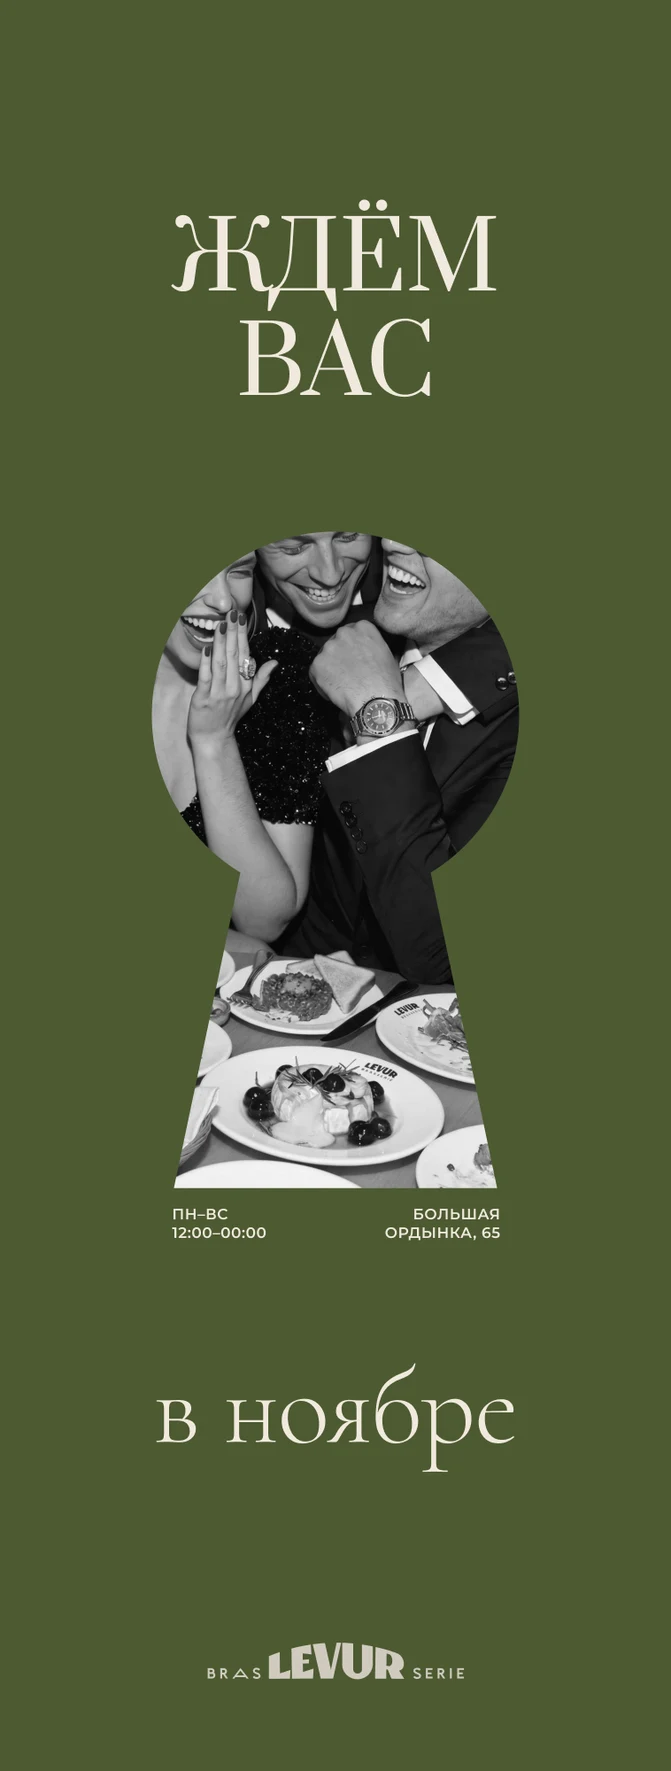
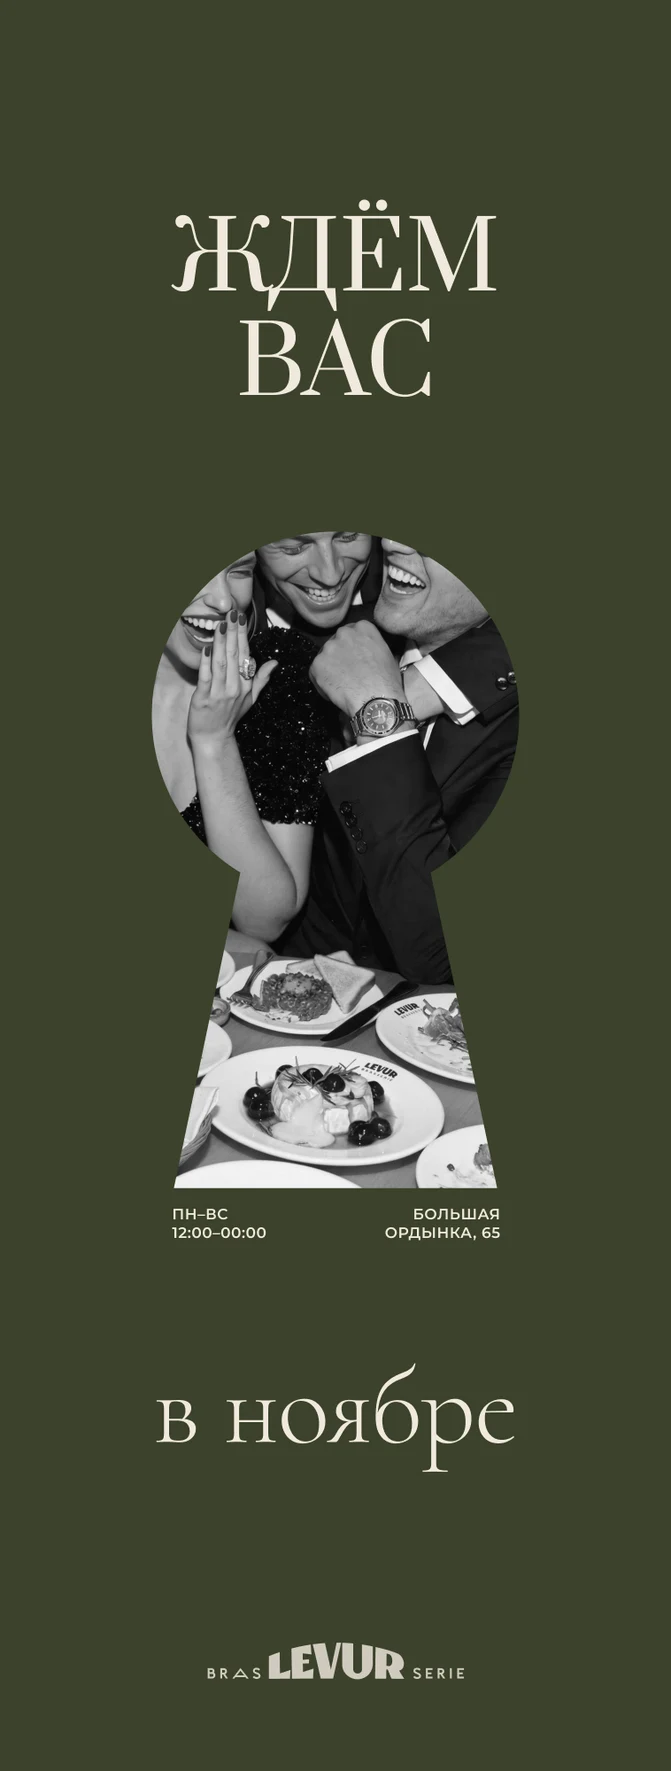
Концепция 2, вариант 2: глубже оливковый и винный

diff --git a/index.html b/index.html
@@ -190,7 +190,7 @@
           </div>
           <div class="shade"></div>
         </div></div>
-        <figcaption>Вариант 2<span class="opts" role="group" aria-label="Вариант постера"><button type="button" id="k2dark" data-img="k2" data-src="door-3d/sticker-poster-serif-dark.webp?v=20261028h" aria-pressed="true">Антиква, чёрный</button><button type="button" data-img="k2" data-src="door-3d/sticker-poster-grotesk.webp?v=20261028g" aria-pressed="false">Гротеск</button><button type="button" data-img="k2" data-src="door-3d/sticker-poster-serif.webp?v=20261028e" aria-pressed="false">Антиква</button></span><span class="swatches" id="k2sw" role="group" aria-label="Цвет фона"><button type="button" class="swb" data-k2="black" data-src="door-3d/sticker-poster-serif-dark.webp?v=20261028h" aria-pressed="true" title="Чёрный" aria-label="Чёрный"><span style="background:#262728"></span></button><button type="button" class="swb" data-k2="green" data-src="door-3d/sticker-poster-serif-dark-green.webp?v=20261028h" aria-pressed="false" title="Оливковый" aria-label="Оливковый"><span style="background:#4d5a32"></span></button><button type="button" class="swb" data-k2="wine" data-src="door-3d/sticker-poster-serif-dark-wine.webp?v=20261028h" aria-pressed="false" title="Винный" aria-label="Винный"><span style="background:#7a2e36"></span></button><span class="cname">Чёрный</span></span></figcaption>
+        <figcaption>Вариант 2<span class="opts" role="group" aria-label="Вариант постера"><button type="button" id="k2dark" data-img="k2" data-src="door-3d/sticker-poster-serif-dark.webp?v=20261028h" aria-pressed="true">Антиква, чёрный</button><button type="button" data-img="k2" data-src="door-3d/sticker-poster-grotesk.webp?v=20261028g" aria-pressed="false">Гротеск</button><button type="button" data-img="k2" data-src="door-3d/sticker-poster-serif.webp?v=20261028e" aria-pressed="false">Антиква</button></span><span class="swatches" id="k2sw" role="group" aria-label="Цвет фона"><button type="button" class="swb" data-k2="black" data-src="door-3d/sticker-poster-serif-dark.webp?v=20261028h" aria-pressed="true" title="Чёрный" aria-label="Чёрный"><span style="background:#262728"></span></button><button type="button" class="swb" data-k2="green" data-src="door-3d/sticker-poster-serif-dark-green.webp?v=20261028j" aria-pressed="false" title="Оливковый" aria-label="Оливковый"><span style="background:#3b422b"></span></button><button type="button" class="swb" data-k2="wine" data-src="door-3d/sticker-poster-serif-dark-wine.webp?v=20261028j" aria-pressed="false" title="Винный" aria-label="Винный"><span style="background:#512e31"></span></button><span class="cname">Чёрный</span></span></figcaption>
       </figure>
     </div>
   </section>
